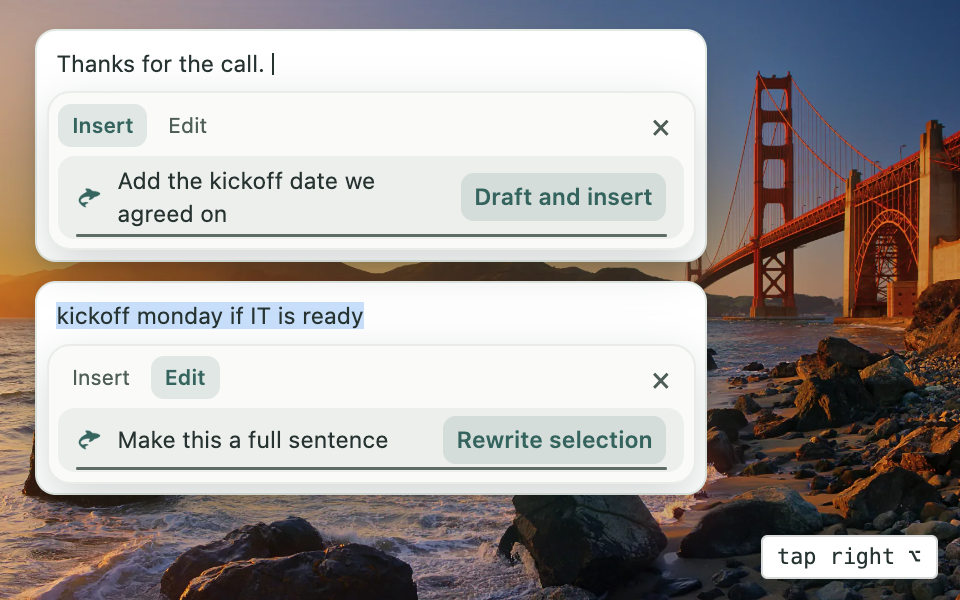
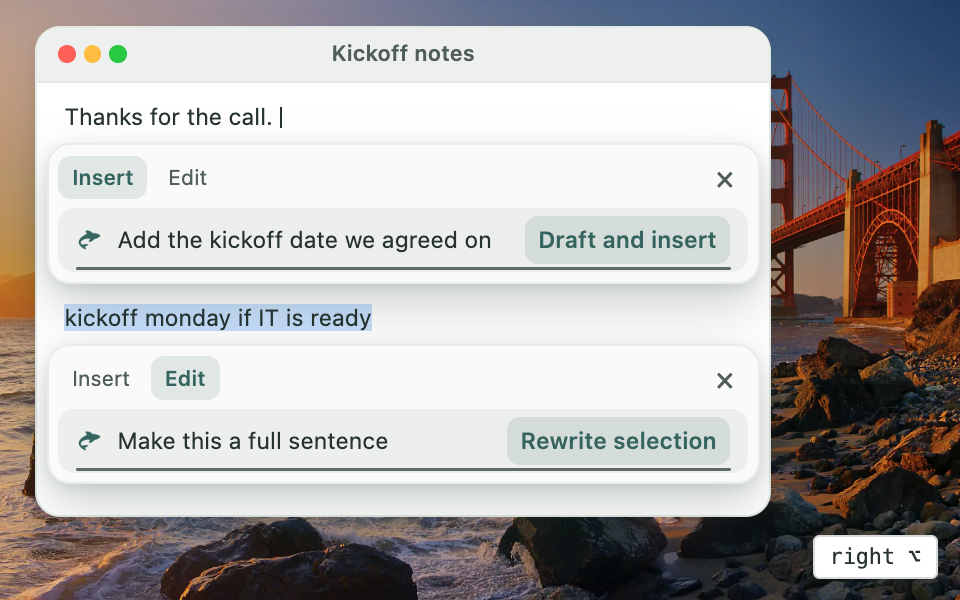
docs(site): float the Insert and Edit popovers over a note window
The popovers sat on the bare wallpaper inside their own little cards,
so they didn't read as popovers floating over a field. They now sit in
a "Kickoff notes" window, each under the line it acts on, slightly
wider than the text and with their own shadow, like the dictation
shot. The key label drops "tap" to match the other cards' keys.

The README image is re-rendered from the new figure.

diff --git a/docs/site/pages/home.html b/docs/site/pages/home.html
@@ -134,8 +134,12 @@
       <article>
         <figure class="shot shot-popover" aria-label="The writing popover in Insert, drafting at the caret, and in Edit, rewriting a selection">
           <img class="shot-backdrop" src="@ROOT@assets/golden-gate.webp" alt="" width="1920" height="1080" loading="lazy">
-          <div class="shot-modes" aria-hidden="true">
-            <div class="shot-field-card">
+          <div class="demo-window shot-window" aria-hidden="true">
+            <div class="demo-titlebar">
+              <div class="window-controls"><i></i><i></i><i></i></div>
+              <span>Kickoff notes</span>
+            </div>
+            <div class="demo-document">
               <p>Thanks for the call. <span class="demo-caret"></span></p>
               <section class="demo-remora demo-editor">
                 <div class="demo-toolbar">
@@ -147,8 +151,6 @@
                   <span class="demo-selected">Draft and insert</span>
                 </div>
               </section>
-            </div>
-            <div class="shot-field-card">
               <p><mark>kickoff monday if IT is ready</mark></p>
               <section class="demo-remora demo-editor">
                 <div class="demo-toolbar">
@@ -162,7 +164,7 @@
               </section>
             </div>
           </div>
-          <figcaption class="shot-keys"><kbd>tap right ⌥</kbd></figcaption>
+          <figcaption class="shot-keys"><kbd>right ⌥</kbd></figcaption>
         </figure>
         <h3>Insert or edit with a prompt</h3>
         <p>Tap right Option once to open the writing popover. Insert drafts new text at the cursor from your prompt. Edit applies your instruction to the selection. Tap again to switch modes.</p>

diff --git a/docs/site/assets/site.css b/docs/site/assets/site.css
@@ -722,27 +722,12 @@ kbd {
 
 .shot-popover .shot-backdrop { object-position: 35% 70%; }
 
-.shot-modes {
-  position: absolute;
-  inset: .9rem auto auto 1.1rem;
-  width: min(21rem, 100% - 2.2rem);
-  display: grid;
-  gap: .6rem;
-}
-
-.shot-field-card {
-  padding: .5rem .6rem .1rem;
-  border: 1px solid var(--line);
-  border-radius: .65rem;
-  background: var(--surface);
-  box-shadow: 0 10px 26px #10272230, 0 2px 6px #10272214;
-}
-
-.shot-field-card mark { background: var(--desktop-selection); color: inherit; }
-.shot-field-card .demo-editor { margin: .35rem -.3rem .2rem; padding: .3rem; gap: .25rem; }
-.shot-field-card .demo-toolbar { font-size: .66rem; }
-.shot-field-card .demo-edit-composer { padding-block: .25rem; min-height: 1.6rem; }
-.shot-field-card .demo-composer .demo-glyph { width: .85rem; height: .85rem; }
+.shot-popover .shot-window { inset-block-start: .8rem; }
+.shot-popover .demo-document { padding-block: .55rem .4rem; }
+.shot-popover .demo-editor { margin: .3rem -.55rem .55rem; padding: .3rem; gap: .25rem; box-shadow: 0 10px 24px #142a2538, 0 2px 6px #142a2518; }
+.shot-popover .demo-toolbar { font-size: .66rem; }
+.shot-popover .demo-edit-composer { padding-block: .25rem; min-height: 1.6rem; }
+.shot-popover .demo-composer .demo-glyph { width: .85rem; height: .85rem; }
 
 .privacy-inner {
   display: grid;
